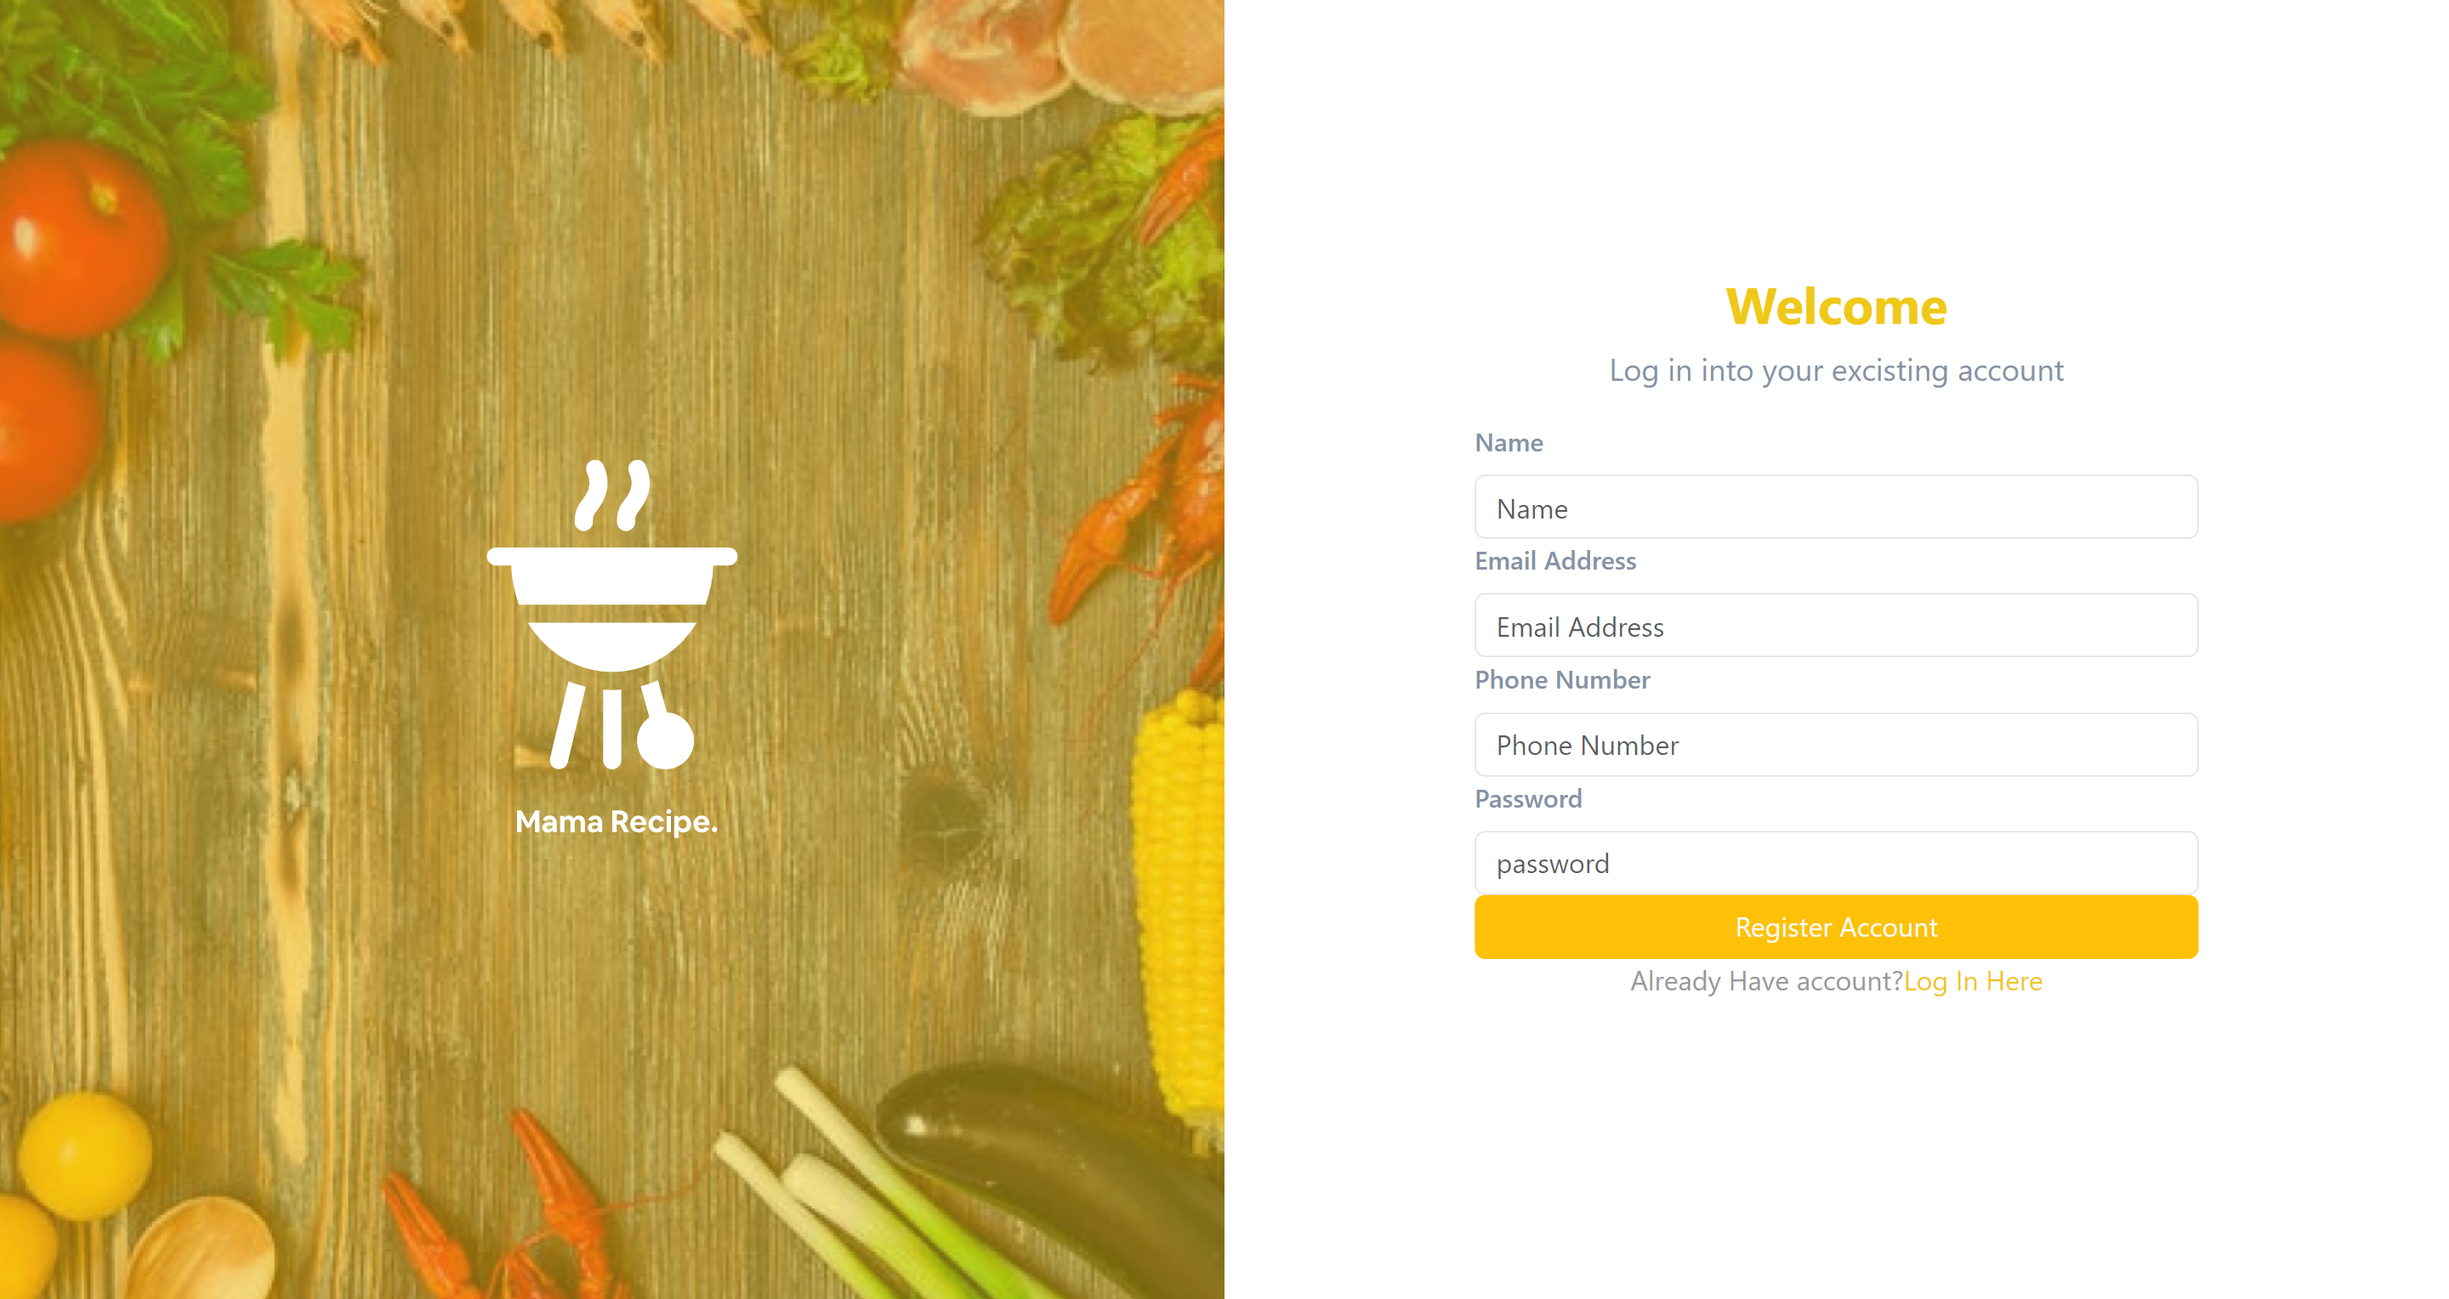
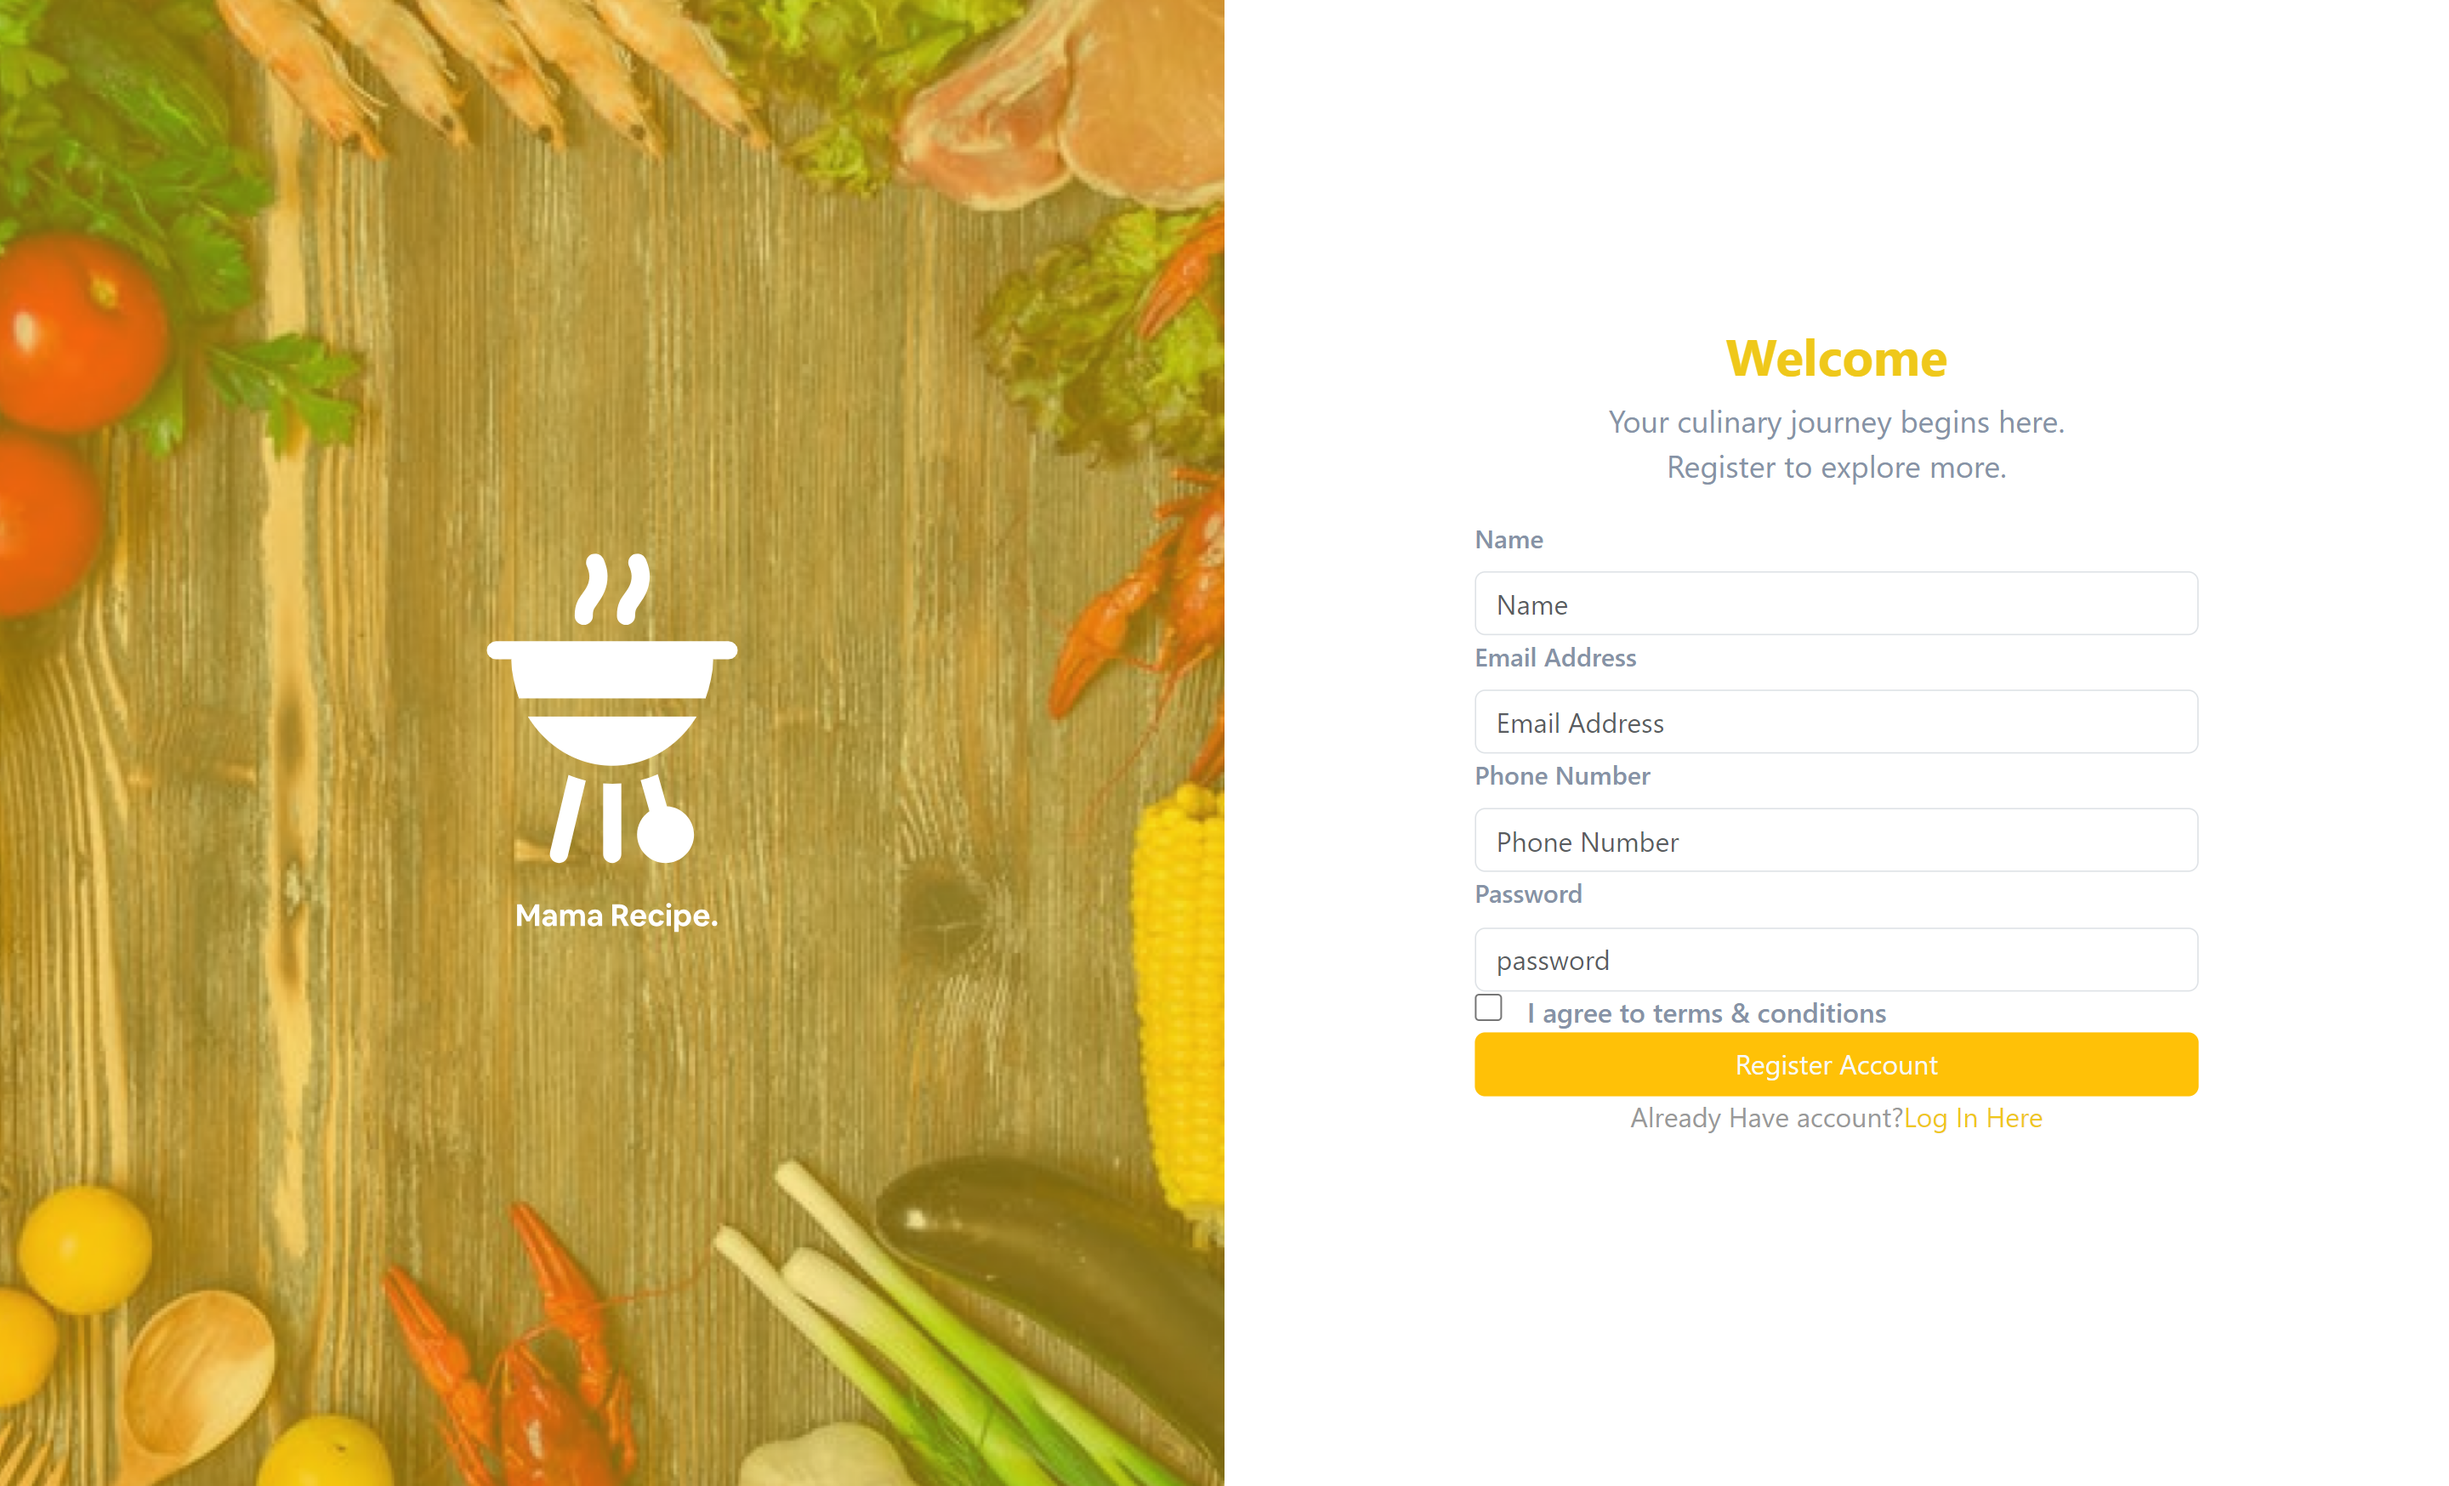
update screenshot

diff --git a/src/views/Register/index.js b/src/views/Register/index.js
@@ -46,7 +46,7 @@ const Register = () => {
             <section id="register">
               <div className="welcome">
                 <h2>Welcome</h2>
-                <p>Your culinary journey begins here. Register to explore more.</p>
+                <p>Your culinary journey begins here. <br/> Register to explore more.</p>
               </div>
               <form onSubmit={handleSubmit}>
                 <div className="wrapper-form">

diff --git a/src/views/Register/register.css b/src/views/Register/register.css
@@ -24,13 +24,15 @@
     flex-direction: column;
     justify-content: center;
     align-items: center;
+    text-align: center;
 
   }
   .welcome h2 {
     font-weight: 700;
     font-size: 30px;
     color: #efc81a;
- 
+    align-items: center;
+    justify-content: center;
   }
   
   .welcome p {
